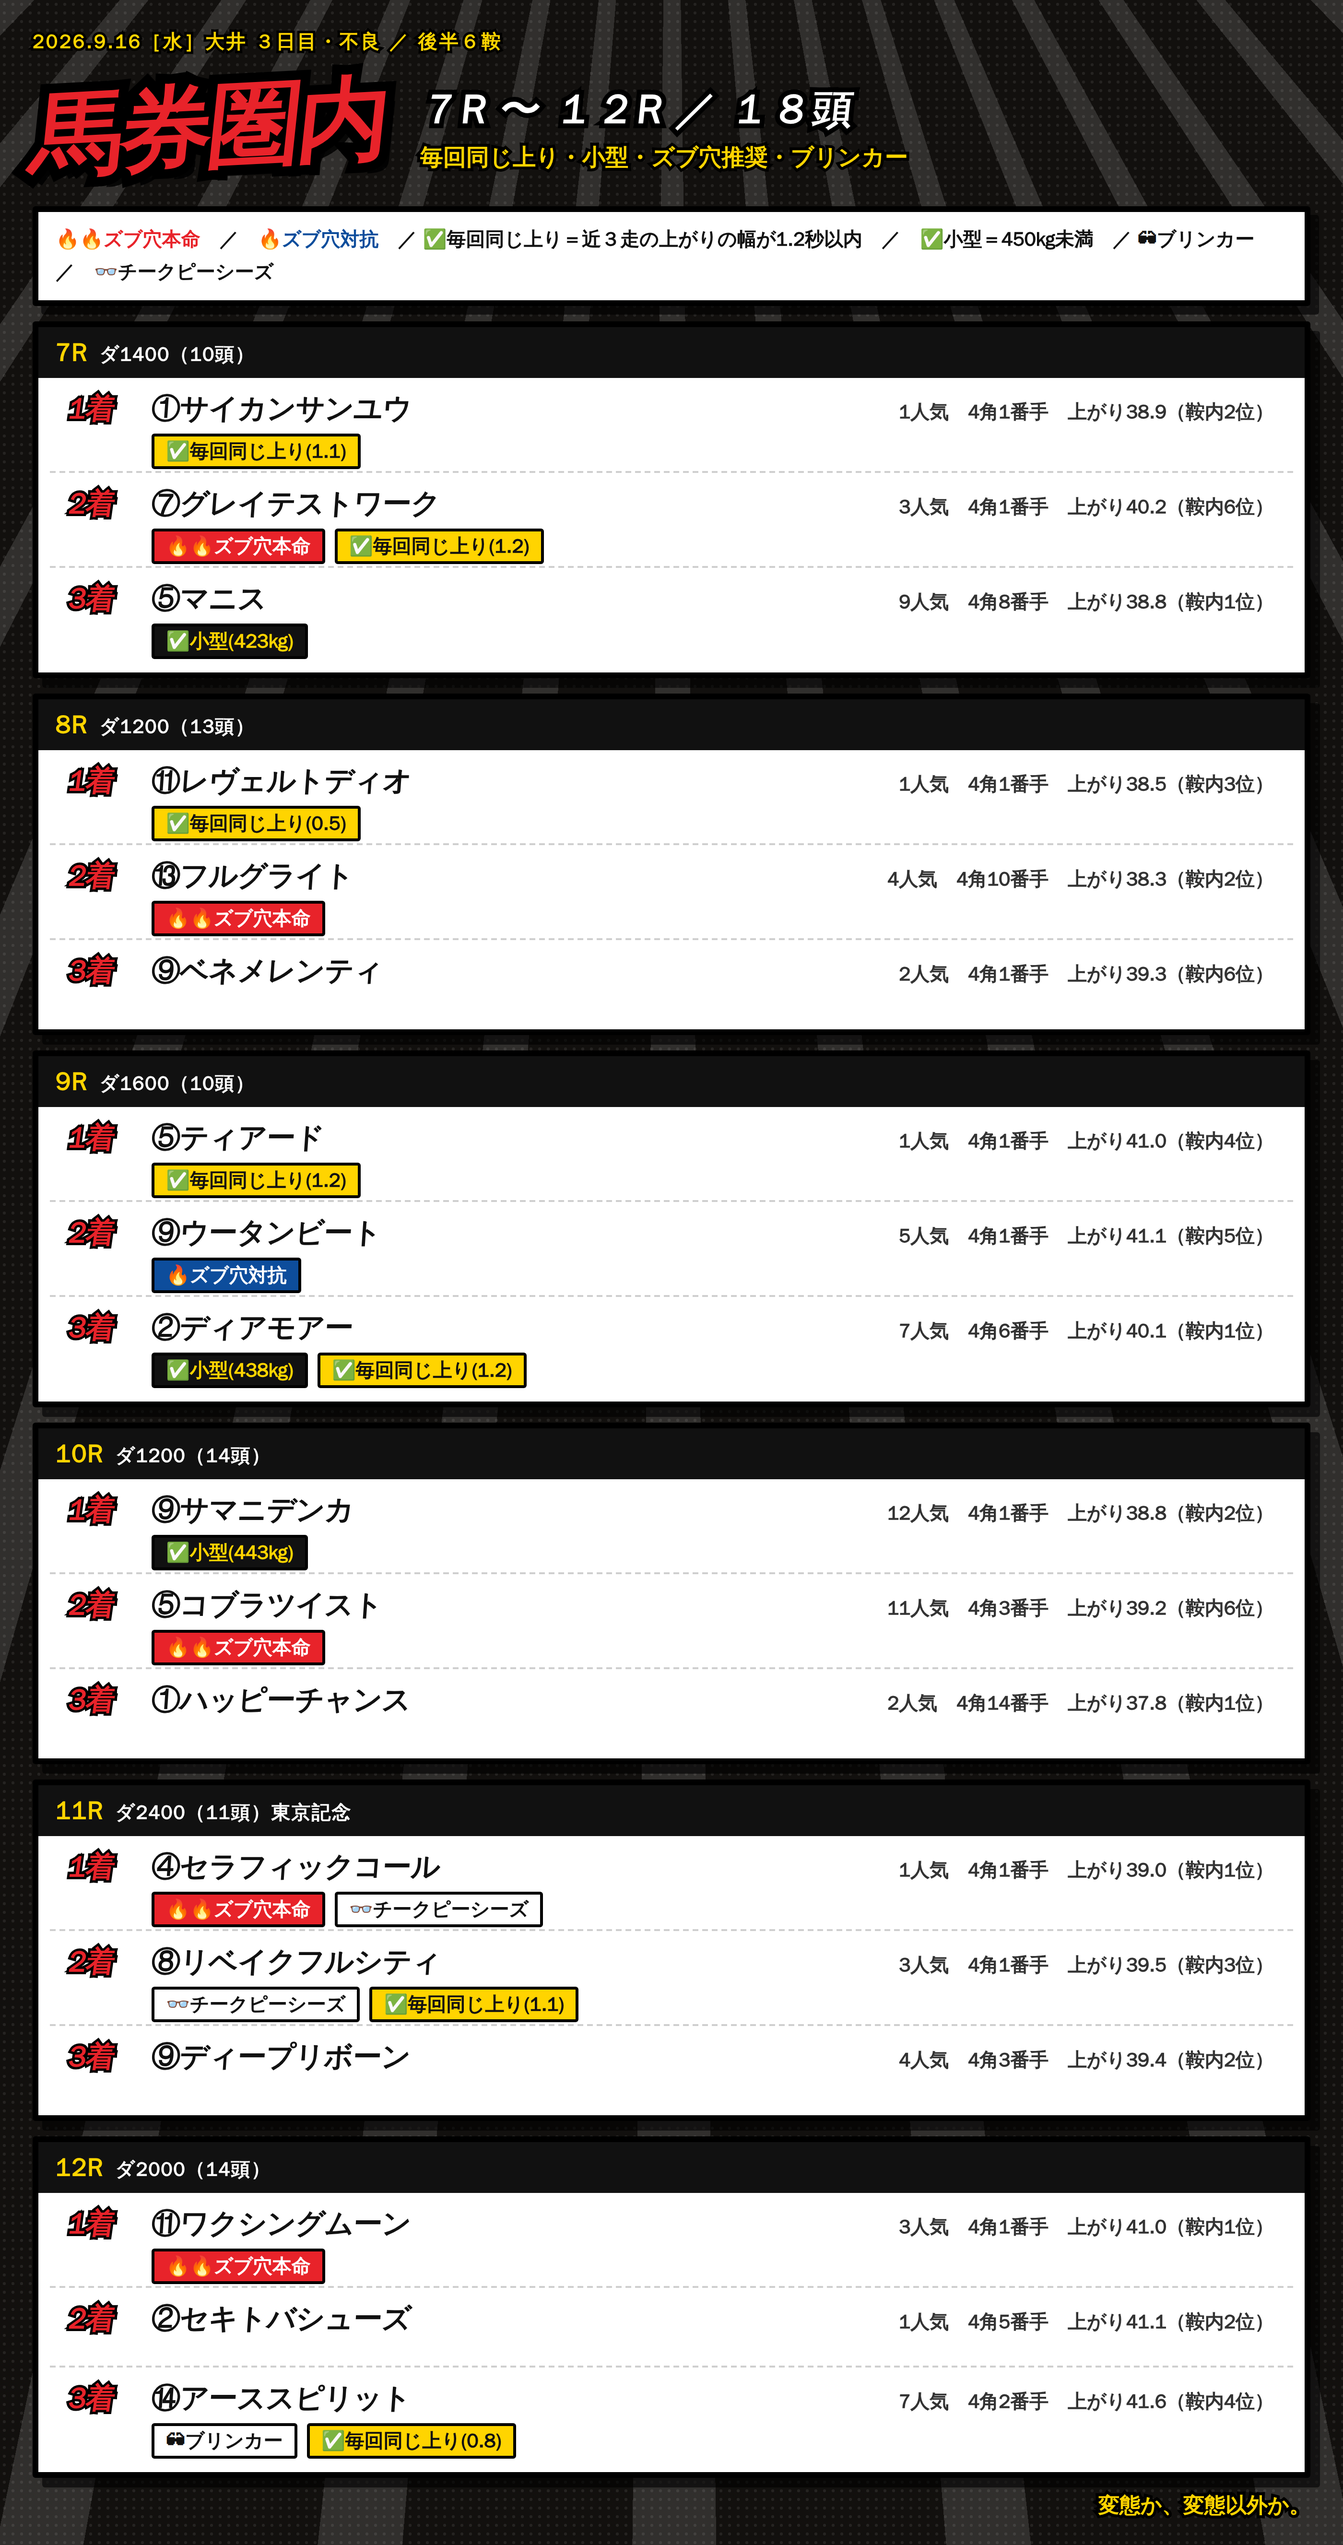
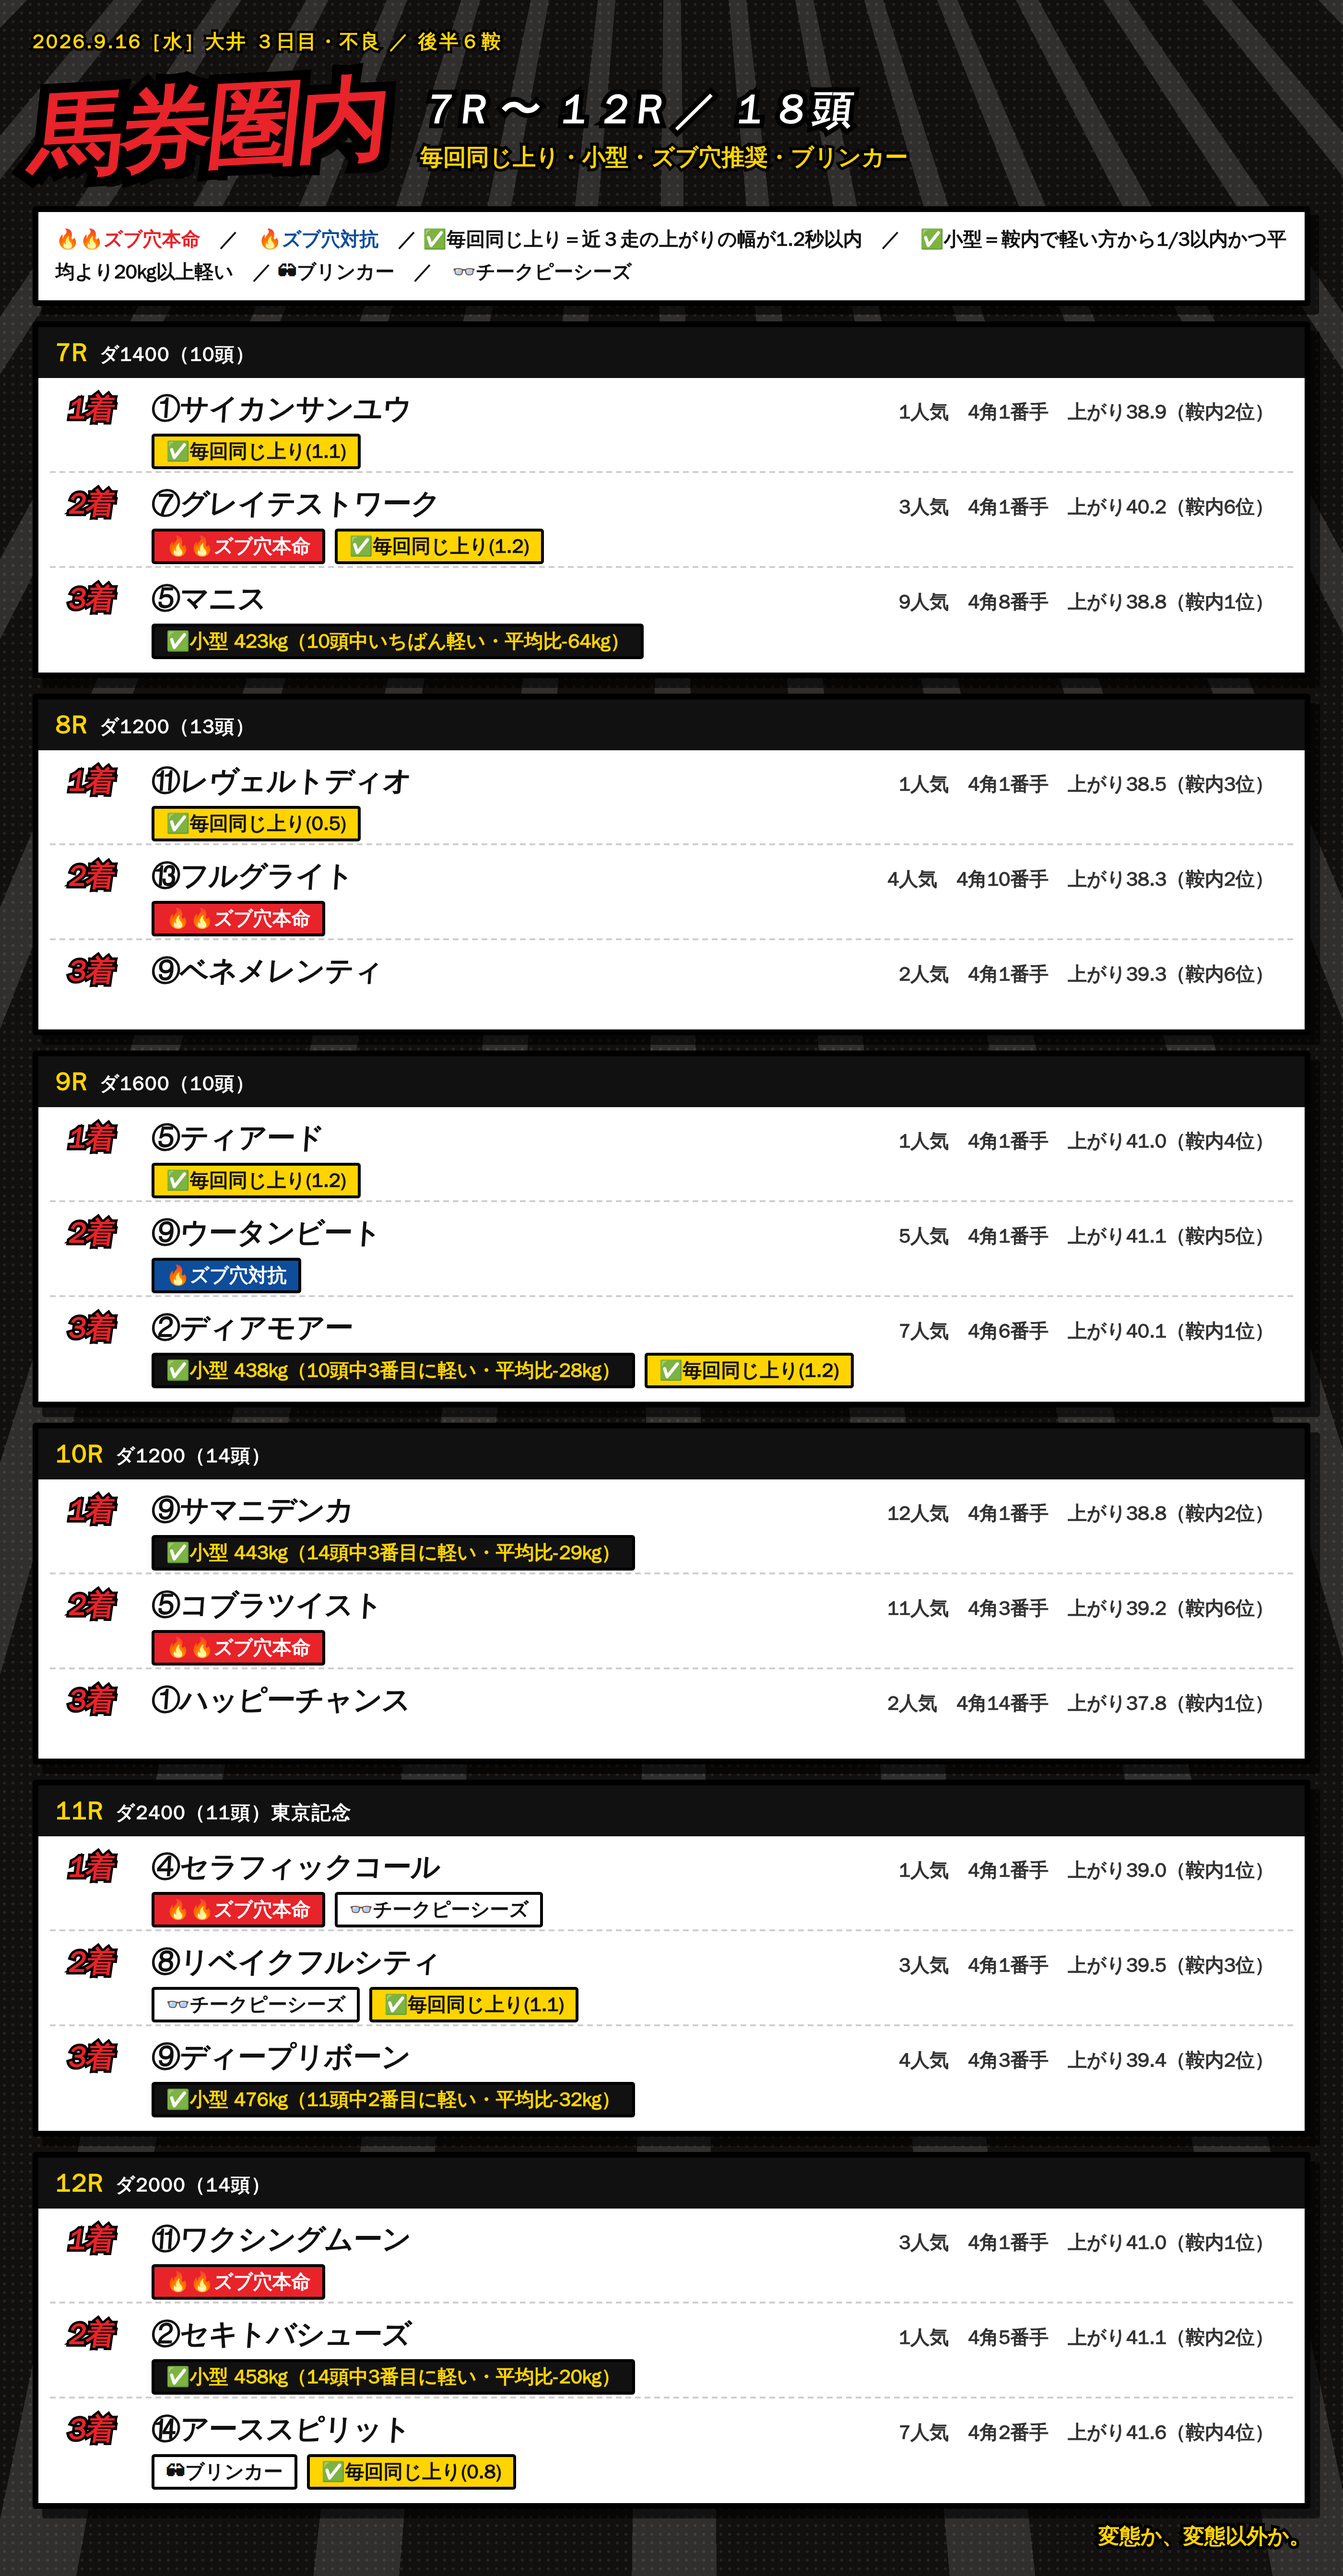
小型の判定を鞍内相対に変更（軽い方から1/3以内かつ平均比-20kg以上）
450kg固定では11R⑨ディープリボーン476kg（11頭中2番目に軽い）と
12R②セキトバシューズ458kg（14頭中3番目に軽い）を取りこぼしていた。

Claude-Session: https://claude.ai/code/session_01RoHscZkr96FNaxQWvUqgEw

diff --git a/notes/live/2026-09-16/oi916_list.html b/notes/live/2026-09-16/oi916_list.html
@@ -70,14 +70,14 @@
 
 <div class="lgd">
   <span class="r">🔥🔥ズブ穴本命</span>　／　<span class="b">🔥ズブ穴対抗</span>　／
-  ✅毎回同じ上り＝近３走の上がりの幅が1.2秒以内　／　✅小型＝450kg未満　／
+  ✅毎回同じ上り＝近３走の上がりの幅が1.2秒以内　／　✅小型＝鞍内で軽い方から1/3以内かつ平均より20kg以上軽い　／
   🕶ブリンカー　／　👓チークピーシーズ
 </div>
 
 <div class="rc"><div class="rh">7R<span>ダ1400（10頭）</span></div>
 <div class="hr"><div class="l1"><div class="f">1着</div><div class="nm">①サイカンサンユウ</div><div class="dt">1人気　4角1番手　上がり38.9（鞍内2位）</div></div><div class="l2"><div class="tg same">✅毎回同じ上り(1.1)</div></div></div>
 <div class="hr"><div class="l1"><div class="f">2着</div><div class="nm">⑦グレイテストワーク</div><div class="dt">3人気　4角1番手　上がり40.2（鞍内6位）</div></div><div class="l2"><div class="tg honmei">🔥🔥ズブ穴本命</div><div class="tg same">✅毎回同じ上り(1.2)</div></div></div>
-<div class="hr"><div class="l1"><div class="f">3着</div><div class="nm">⑤マニス</div><div class="dt">9人気　4角8番手　上がり38.8（鞍内1位）</div></div><div class="l2"><div class="tg small">✅小型(423kg)</div></div></div>
+<div class="hr"><div class="l1"><div class="f">3着</div><div class="nm">⑤マニス</div><div class="dt">9人気　4角8番手　上がり38.8（鞍内1位）</div></div><div class="l2"><div class="tg small">✅小型 423kg（10頭中いちばん軽い・平均比-64kg）</div></div></div>
 </div>
 <div class="rc"><div class="rh">8R<span>ダ1200（13頭）</span></div>
 <div class="hr"><div class="l1"><div class="f">1着</div><div class="nm">⑪レヴェルトディオ</div><div class="dt">1人気　4角1番手　上がり38.5（鞍内3位）</div></div><div class="l2"><div class="tg same">✅毎回同じ上り(0.5)</div></div></div>
@@ -87,21 +87,21 @@
 <div class="rc"><div class="rh">9R<span>ダ1600（10頭）</span></div>
 <div class="hr"><div class="l1"><div class="f">1着</div><div class="nm">⑤ティアード</div><div class="dt">1人気　4角1番手　上がり41.0（鞍内4位）</div></div><div class="l2"><div class="tg same">✅毎回同じ上り(1.2)</div></div></div>
 <div class="hr"><div class="l1"><div class="f">2着</div><div class="nm">⑨ウータンビート</div><div class="dt">5人気　4角1番手　上がり41.1（鞍内5位）</div></div><div class="l2"><div class="tg taiko">🔥ズブ穴対抗</div></div></div>
-<div class="hr"><div class="l1"><div class="f">3着</div><div class="nm">②ディアモアー</div><div class="dt">7人気　4角6番手　上がり40.1（鞍内1位）</div></div><div class="l2"><div class="tg small">✅小型(438kg)</div><div class="tg same">✅毎回同じ上り(1.2)</div></div></div>
+<div class="hr"><div class="l1"><div class="f">3着</div><div class="nm">②ディアモアー</div><div class="dt">7人気　4角6番手　上がり40.1（鞍内1位）</div></div><div class="l2"><div class="tg small">✅小型 438kg（10頭中3番目に軽い・平均比-28kg）</div><div class="tg same">✅毎回同じ上り(1.2)</div></div></div>
 </div>
 <div class="rc"><div class="rh">10R<span>ダ1200（14頭）</span></div>
-<div class="hr"><div class="l1"><div class="f">1着</div><div class="nm">⑨サマニデンカ</div><div class="dt">12人気　4角1番手　上がり38.8（鞍内2位）</div></div><div class="l2"><div class="tg small">✅小型(443kg)</div></div></div>
+<div class="hr"><div class="l1"><div class="f">1着</div><div class="nm">⑨サマニデンカ</div><div class="dt">12人気　4角1番手　上がり38.8（鞍内2位）</div></div><div class="l2"><div class="tg small">✅小型 443kg（14頭中3番目に軽い・平均比-29kg）</div></div></div>
 <div class="hr"><div class="l1"><div class="f">2着</div><div class="nm">⑤コブラツイスト</div><div class="dt">11人気　4角3番手　上がり39.2（鞍内6位）</div></div><div class="l2"><div class="tg honmei">🔥🔥ズブ穴本命</div></div></div>
 <div class="hr"><div class="l1"><div class="f">3着</div><div class="nm">①ハッピーチャンス</div><div class="dt">2人気　4角14番手　上がり37.8（鞍内1位）</div></div><div class="sp"></div></div>
 </div>
 <div class="rc"><div class="rh">11R<span>ダ2400（11頭）東京記念</span></div>
 <div class="hr"><div class="l1"><div class="f">1着</div><div class="nm">④セラフィックコール</div><div class="dt">1人気　4角1番手　上がり39.0（鞍内1位）</div></div><div class="l2"><div class="tg honmei">🔥🔥ズブ穴本命</div><div class="tg bl">👓チークピーシーズ</div></div></div>
 <div class="hr"><div class="l1"><div class="f">2着</div><div class="nm">⑧リベイクフルシティ</div><div class="dt">3人気　4角1番手　上がり39.5（鞍内3位）</div></div><div class="l2"><div class="tg bl">👓チークピーシーズ</div><div class="tg same">✅毎回同じ上り(1.1)</div></div></div>
-<div class="hr"><div class="l1"><div class="f">3着</div><div class="nm">⑨ディープリボーン</div><div class="dt">4人気　4角3番手　上がり39.4（鞍内2位）</div></div><div class="sp"></div></div>
+<div class="hr"><div class="l1"><div class="f">3着</div><div class="nm">⑨ディープリボーン</div><div class="dt">4人気　4角3番手　上がり39.4（鞍内2位）</div></div><div class="l2"><div class="tg small">✅小型 476kg（11頭中2番目に軽い・平均比-32kg）</div></div></div>
 </div>
 <div class="rc"><div class="rh">12R<span>ダ2000（14頭）</span></div>
 <div class="hr"><div class="l1"><div class="f">1着</div><div class="nm">⑪ワクシングムーン</div><div class="dt">3人気　4角1番手　上がり41.0（鞍内1位）</div></div><div class="l2"><div class="tg honmei">🔥🔥ズブ穴本命</div></div></div>
-<div class="hr"><div class="l1"><div class="f">2着</div><div class="nm">②セキトバシューズ</div><div class="dt">1人気　4角5番手　上がり41.1（鞍内2位）</div></div><div class="sp"></div></div>
+<div class="hr"><div class="l1"><div class="f">2着</div><div class="nm">②セキトバシューズ</div><div class="dt">1人気　4角5番手　上がり41.1（鞍内2位）</div></div><div class="l2"><div class="tg small">✅小型 458kg（14頭中3番目に軽い・平均比-20kg）</div></div></div>
 <div class="hr"><div class="l1"><div class="f">3着</div><div class="nm">⑭アーススピリット</div><div class="dt">7人気　4角2番手　上がり41.6（鞍内4位）</div></div><div class="l2"><div class="tg bl">🕶ブリンカー</div><div class="tg same">✅毎回同じ上り(0.8)</div></div></div>
 </div>
 
